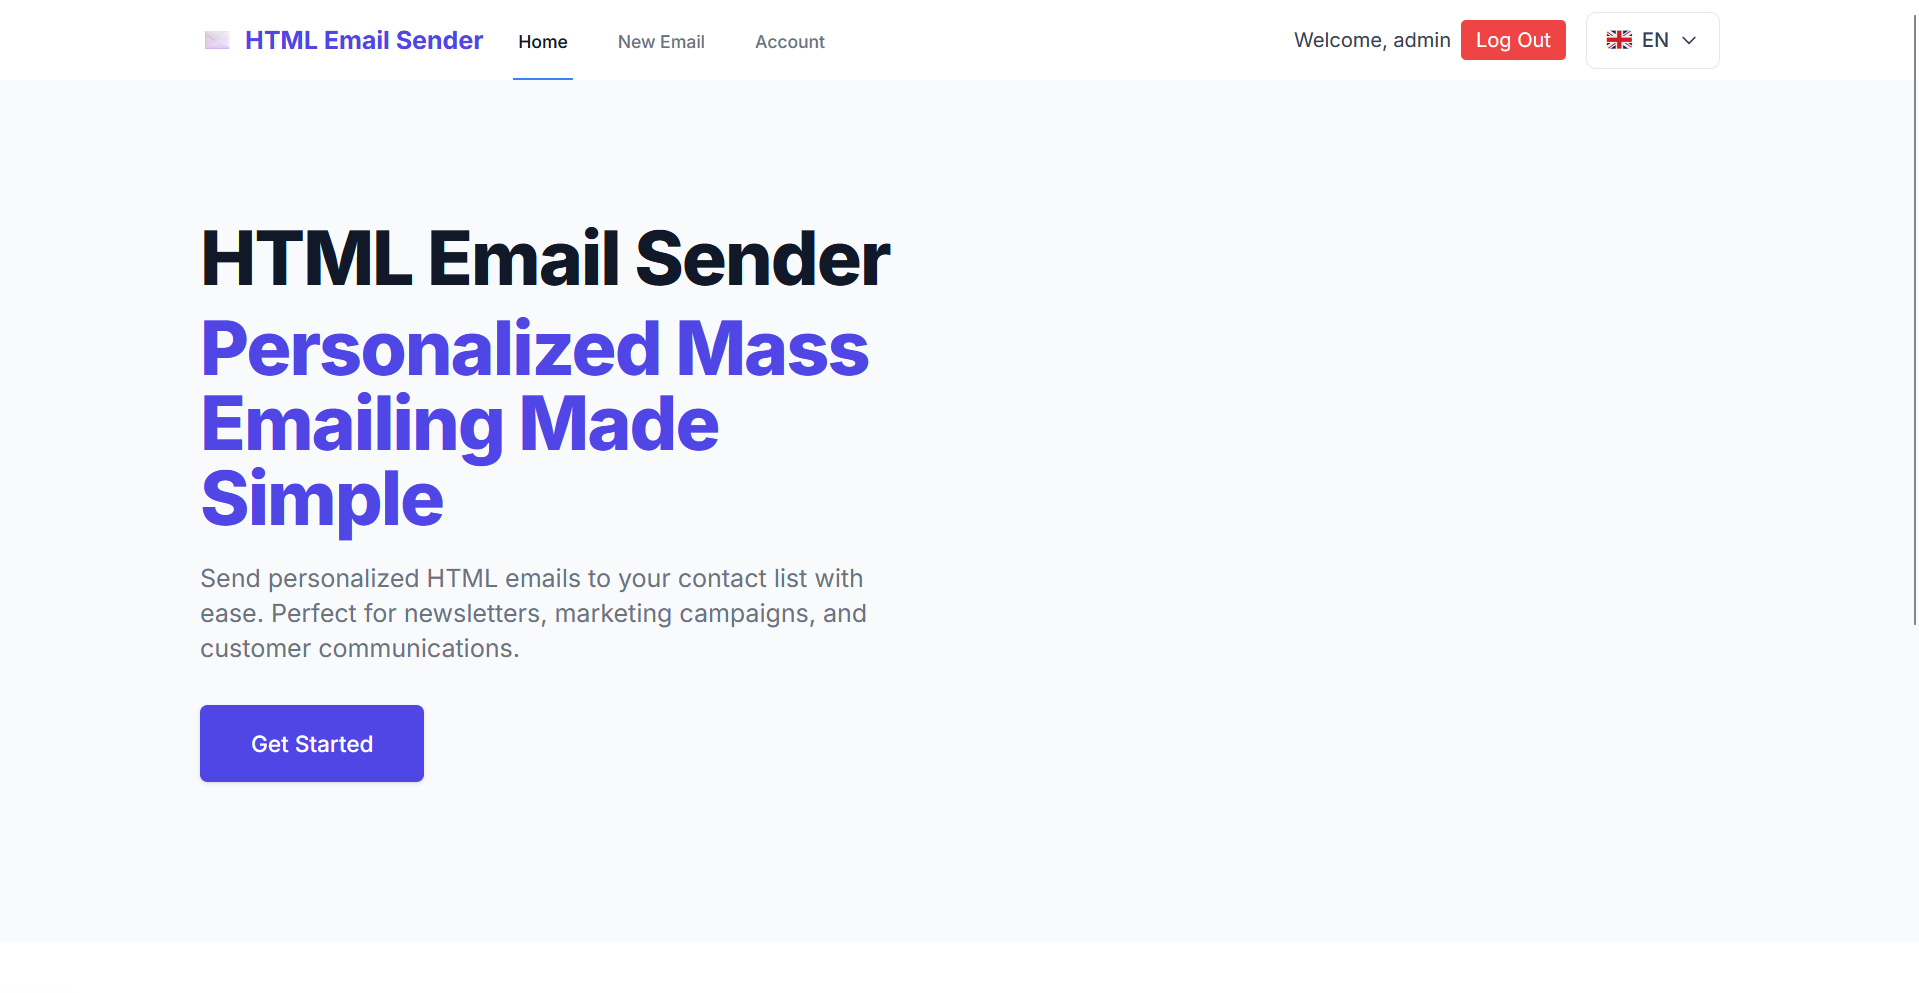
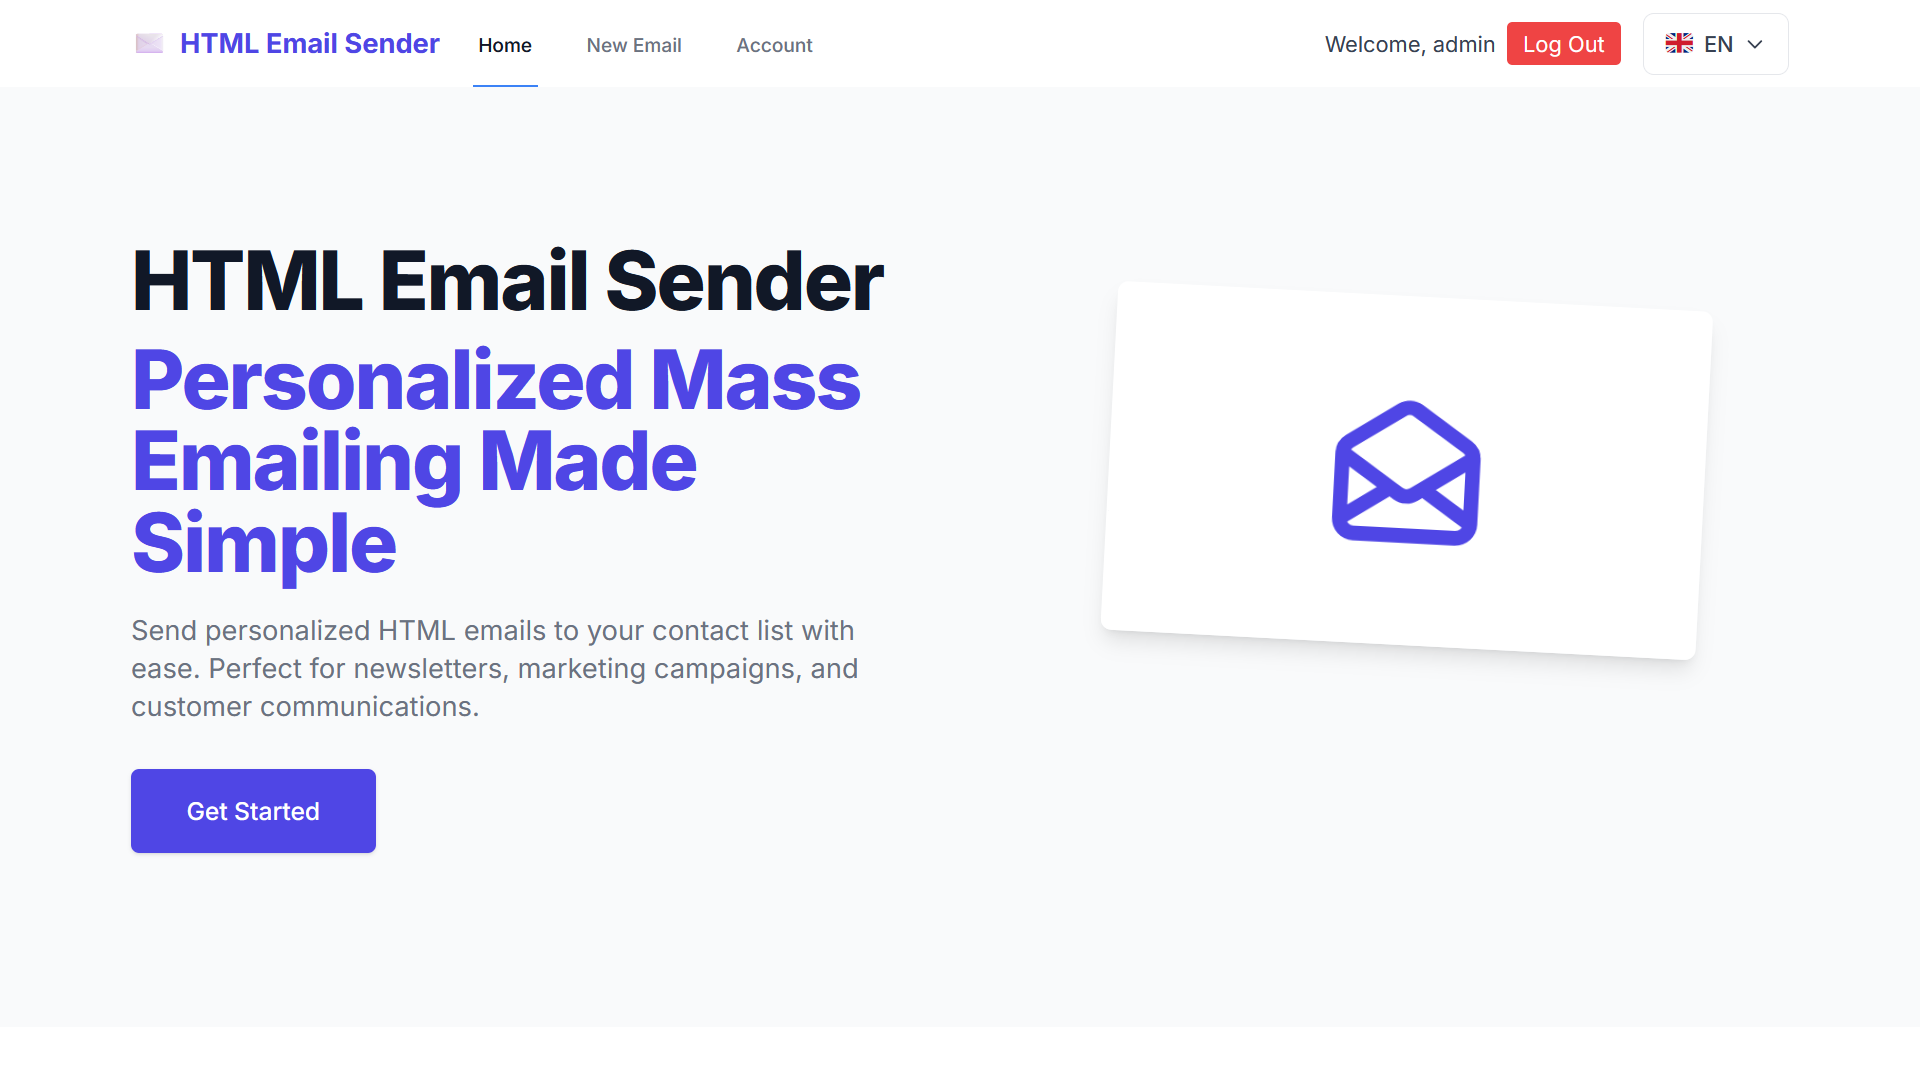
style: Update hero section with  illustration

diff --git a/src/app/page.tsx b/src/app/page.tsx
@@ -12,28 +12,55 @@ const Home = () => {
       {/* Hero Section */}
       <div className="relative overflow-hidden">
         <div className="max-w-7xl mx-auto">
-          <div className="relative z-10 pb-8 bg-gray-50 sm:pb-16 md:pb-20 lg:max-w-2xl lg:w-full lg:pb-28 xl:pb-32">
-            <main className="mt-10 mx-auto max-w-7xl px-4 sm:mt-12 sm:px-6 md:mt-16 lg:mt-20 lg:px-8 xl:mt-28">
-              <div className="sm:text-center lg:text-left">
-                <h1 className="text-4xl tracking-tight font-extrabold text-gray-900 sm:text-5xl md:text-6xl">
-                  <span className="block">{t('heroTitle')}</span>
-                  <span className="block text-indigo-600 mt-3">{t('heroSubtitle')}</span>
-                </h1>
-                <p className="mt-3 text-base text-gray-500 sm:mt-5 sm:text-lg sm:max-w-xl sm:mx-auto md:mt-5 md:text-xl lg:mx-0">
-                  {t('heroDescription')}
-                </p>
-                <div className="mt-5 sm:mt-8 sm:flex sm:justify-center lg:justify-start">
-                  <div className="rounded-md shadow">
-                    <Link
-                      href="/send-mail"
-                      className="w-full flex items-center justify-center px-8 py-3 border border-transparent text-base font-medium rounded-md text-white bg-indigo-600 hover:bg-indigo-700 md:py-4 md:text-lg md:px-10"
-                    >
-                      {t('getStarted')}
-                    </Link>
+          <div className="relative z-10 pb-8 bg-gray-50 sm:pb-16 md:pb-20 lg:w-full lg:pb-28 xl:pb-32">
+            <div className="lg:grid lg:grid-cols-12 lg:gap-8">
+              {/* Left content */}
+              <main className="mt-10 mx-auto max-w-7xl px-4 sm:mt-12 sm:px-6 md:mt-16 lg:col-span-6 lg:mt-20 lg:px-8 xl:mt-28">
+                <div className="sm:text-center lg:text-left">
+                  <h1 className="text-4xl tracking-tight font-extrabold text-gray-900 sm:text-5xl md:text-6xl">
+                    <span className="block">{t('heroTitle')}</span>
+                    <span className="block text-indigo-600 mt-3">{t('heroSubtitle')}</span>
+                  </h1>
+                  <p className="mt-3 text-base text-gray-500 sm:mt-5 sm:text-lg sm:max-w-xl sm:mx-auto md:mt-5 md:text-xl lg:mx-0">
+                    {t('heroDescription')}
+                  </p>
+                  <div className="mt-5 sm:mt-8 sm:flex sm:justify-center lg:justify-start">
+                    <div className="rounded-md shadow">
+                      <Link
+                        href="/send-mail"
+                        className="w-full flex items-center justify-center px-8 py-3 border border-transparent text-base font-medium rounded-md text-white bg-indigo-600 hover:bg-indigo-700 md:py-4 md:text-lg md:px-10"
+                      >
+                        {t('getStarted')}
+                      </Link>
+                    </div>
+                  </div>
+                </div>
+              </main>
+              
+              {/* Right content - Illustration */}
+              <div className="hidden lg:block lg:col-span-6">
+                <div className="relative h-full flex items-center justify-center">
+                  <div className="w-[70%] h-64 bg-white rounded-lg shadow-lg transform rotate-3">
+                    <div className="absolute inset-0 flex items-center justify-center">
+                      <svg
+                        className="w-32 h-32 text-indigo-600 transform transition-transform hover:scale-105 duration-300"
+                        fill="none"
+                        stroke="currentColor"
+                        viewBox="0 0 24 24"
+                        xmlns="http://www.w3.org/2000/svg"
+                      >
+                        <path
+                          strokeLinecap="round"
+                          strokeLinejoin="round"
+                          strokeWidth={2}
+                          d="M3 19v-8.93a2 2 0 01.89-1.664l7-4.666a2 2 0 012.22 0l7 4.666A2 2 0 0121 10.07V19M3 19a2 2 0 002 2h14a2 2 0 002-2M3 19l6.75-4.5M21 19l-6.75-4.5M3 10l6.75 4.5M21 10l-6.75 4.5m0 0l-1.14.76a2 2 0 01-2.22 0l-1.14-.76"
+                        />
+                      </svg>
+                    </div>
                   </div>
                 </div>
               </div>
-            </main>
+            </div>
           </div>
         </div>
       </div>
